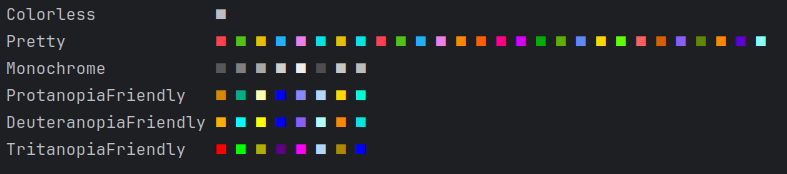
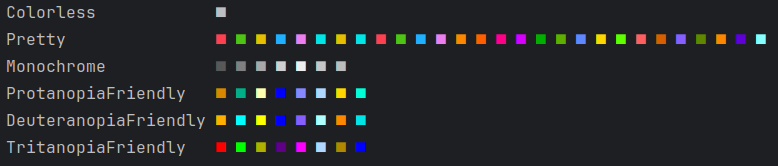
minor monochrome adjustments

diff --git a/example/example.py b/example/example.py
@@ -7,12 +7,12 @@ y1 = [math.cos(value * 10) for value in x]
 y2 = [math.cos(value * 10 + 0.1) for value in x]
 y3 = [math.sin(value * 10) for value in x]
 
-plot = ansiplot.Scaled(40, 10, axis=False)
+plot = ansiplot.Scaled(40, 10, axis=False, palette=Pretty)
 plot.plot(x, y1, title="cos")
 plot.plot(x, y2, title="cos offset")
 plot.plot(x, y3, title="cos")
 
-plot.bar(0, None, symbol="▕▎")
+plot.bar(0, None, symbol=Pretty.separator)
 plot.hbar(None, 0, symbol=Pretty.xaxis, title="x=0 or y=0")
 
 plot.show()

diff --git a/example/playground.py b/example/playground.py
@@ -1,3 +1,9 @@
 import ansiplot
 
-ansiplot.palette.info()
+values = {"dogs": 59.8E6, "cats": 42.2E6, "fish": 4.9E6,
+          "reptiles": 2.3E6, "birds": 2.1E6, "small mammals": 1.3E6}
+
+canvas = ansiplot.Scaled(40, 10)
+for pos, (key, value) in enumerate(values.items()):
+    canvas.bar(pos, value, title=key)
+canvas.show()

diff --git a/ansiplot/palette/monochrome.py b/ansiplot/palette/monochrome.py
@@ -15,7 +15,6 @@ class Monochrome:
         "\033[38;5;248m",  # Light Gray
         "\033[38;5;252m",  # Very Light Gray
         "\033[38;5;255m",  # Almost White
-        "\033[38;5;239m",  # Charcoal
         "\033[38;5;251m",  # Off-White
         "\033[38;5;250m",  # Silver
     ]

diff --git a/example/showcase.md b/example/showcase.md
@@ -33,12 +33,13 @@ from ansiplot.palette import Pretty
 plot = ansiplot.Rect(60, 10, 
      xlimits=(-1, 1), 
      ylimits=(-1, 1), 
-     axis=False)
+     axis=False, 
+     palette=Pretty)
 plot.plot(x, y1, title="cos")
 plot.plot(x, y2, title="cos offset")
 plot.plot(x, y3, title="cos")
 # plot a custom axis
-plot.bar(0, (-1, 1), symbol="▕▎");
+plot.bar(0, (-1, 1), symbol=Pretty.separator)
 plot.hbar((-1, 1), 0, symbol=Pretty.xaxis, title="x=0 or y=0")
 # show
 plot.show()
@@ -48,9 +49,11 @@ plot.show()
 <img src="example.png" alt="Example image" width="400">
 
 Get the text manually with `plot.text()`.
-Both this and the show method have
-colorless versions (useful for exporting to
-files) and control whether legends are shown.
+Both this and the show can export to the 
+colorless palette, which does not use ANSI.
+This is useful for exporting to
+files. Both methods also control whether 
+legends are shown.
 Here is an example for exporting the canvas
 to a file:
 

diff --git a/README.md b/README.md
@@ -33,5 +33,5 @@ numeric iterable -such as numpy arrays- can be given as data.
 
 ## Read more
 
-[Showcase](example/showcase.md) - see all features in action<br>
+[Showcase](example/showcase.md) - see several features in action<br>
 [Documentation](example/docs.md) - available methods
